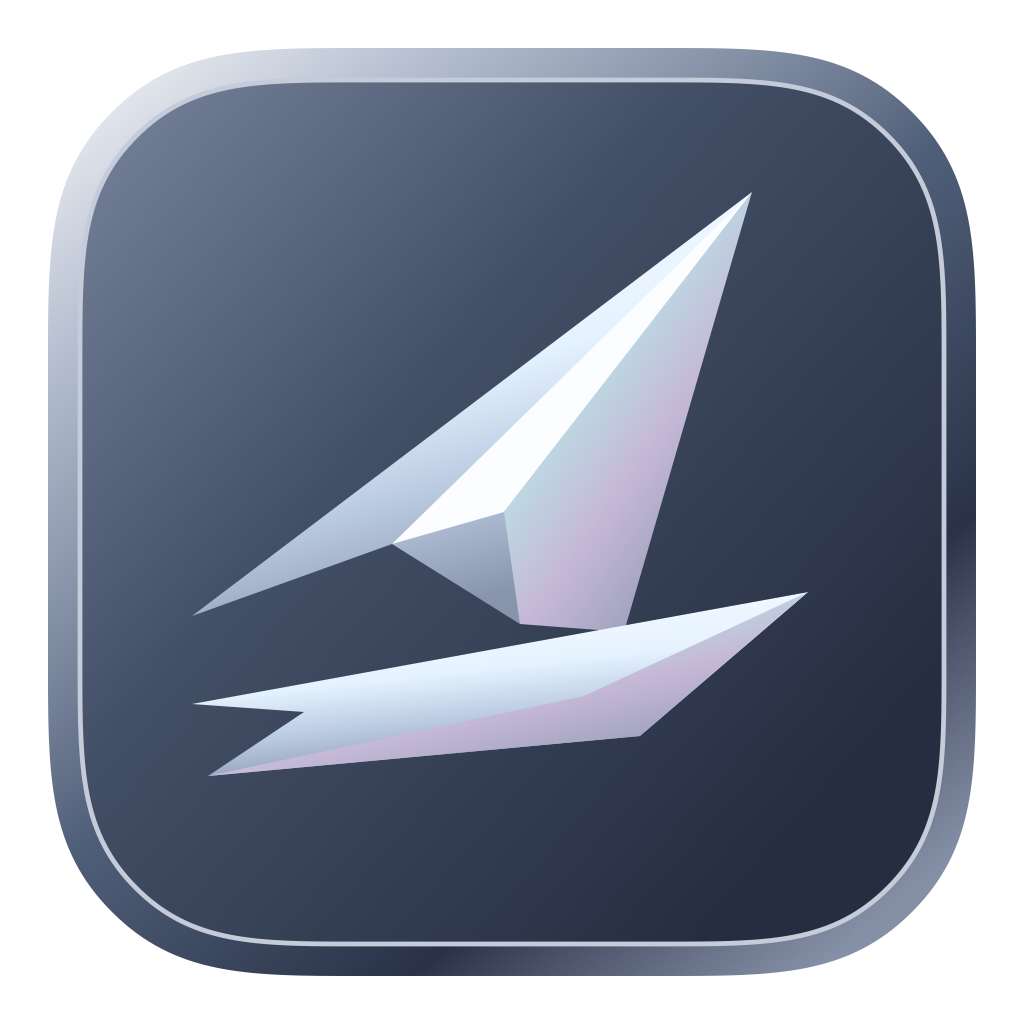
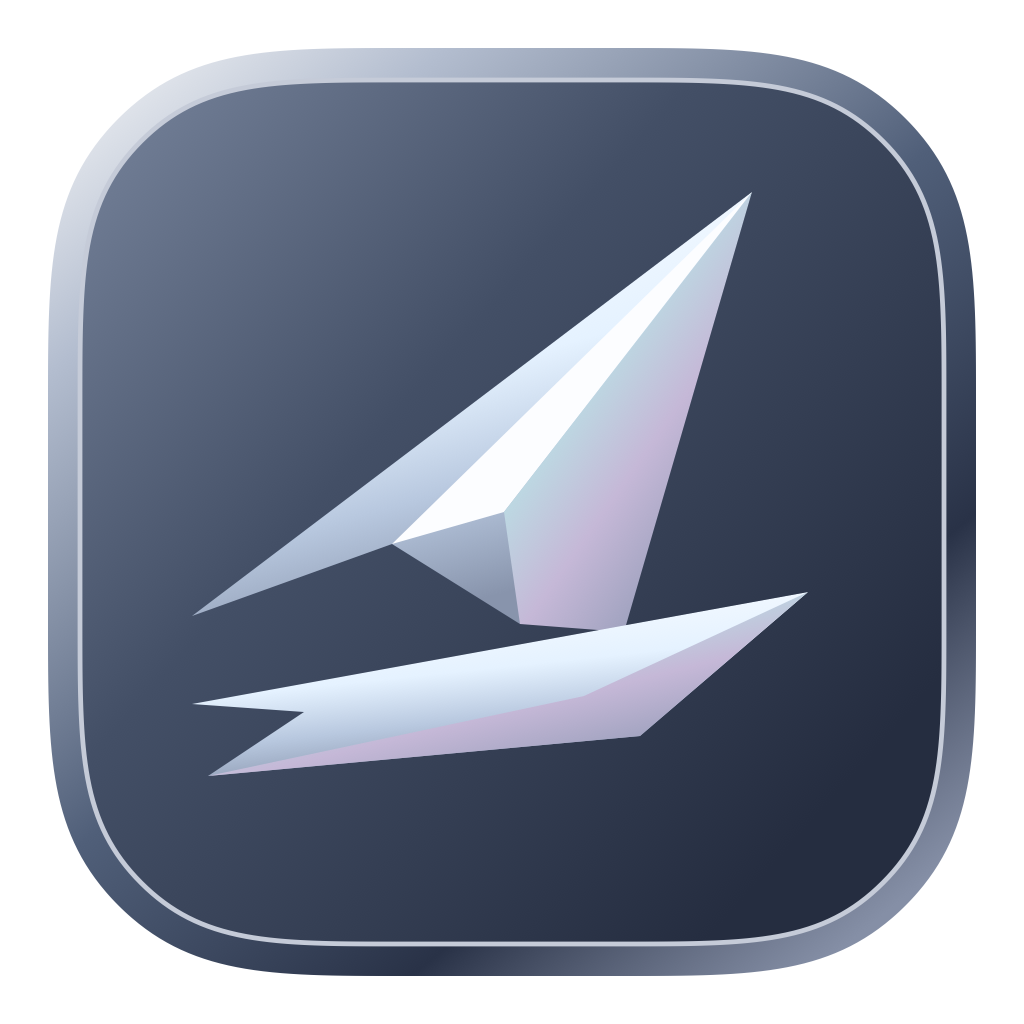
ui: 对齐 Skiff 与 macOS 原生应用图标的圆角轮廓

diff --git a/tests/contract/corners_test.go b/tests/contract/corners_test.go
@@ -228,17 +228,25 @@ func checkLogoShoulders(t *testing.T, im image.Image) {
 	if im.Bounds() != image.Rect(0, 0, 1024, 1024) {
 		t.Fatal(im.Bounds())
 	}
-	// At the old radius's tangent point a circular corner is already flat.
-	// The continuous shoulder is still turning here; the top centre is solid.
-	for _, x := range []int{34 * 8, 1023 - 34*8} {
-		for _, y := range []int{48, 975} {
+	// The 50%-alpha contour of Calculator on macOS 26.5.2, scaled from
+	// its 824px body to Skiff's 928px body. Coordinates exclude the padding.
+	const inset = 48
+	profile := []image.Point{{X: 70, Y: 70}, {X: 96, Y: 48}, {X: 128, Y: 29}, {X: 160, Y: 16}, {X: 192, Y: 8}, {X: 224, Y: 4}, {X: 256, Y: 1}, {X: 464, Y: 0}}
+	check := func(x, y int, inside bool) {
+		t.Helper()
+		for range 4 {
 			_, _, _, a := im.At(x, y).RGBA()
-			if a > 0x5000 {
-				t.Errorf("logo shoulder (%d,%d) is already flat: alpha %d", x, y, a)
+			if (a >= 0x8000) != inside {
+				t.Fatalf("corner diverges from the native contour at (%d,%d): alpha %d", x, y, a)
 			}
+			x, y = 1023-y, x // Rotate the probe to the next corner.
 		}
 	}
-	if _, _, _, a := im.At(512, 50).RGBA(); a < 0xf000 {
-		t.Error("logo top edge has moved")
+	for _, p := range profile {
+		for _, x := range []int{inset + p.X, 1023 - inset - p.X} {
+			// Tolerate a pixel of variation between SVG rasterizers.
+			check(x, inset+p.Y-2, false)
+			check(x, inset+p.Y+1, true)
+		}
 	}
 }
